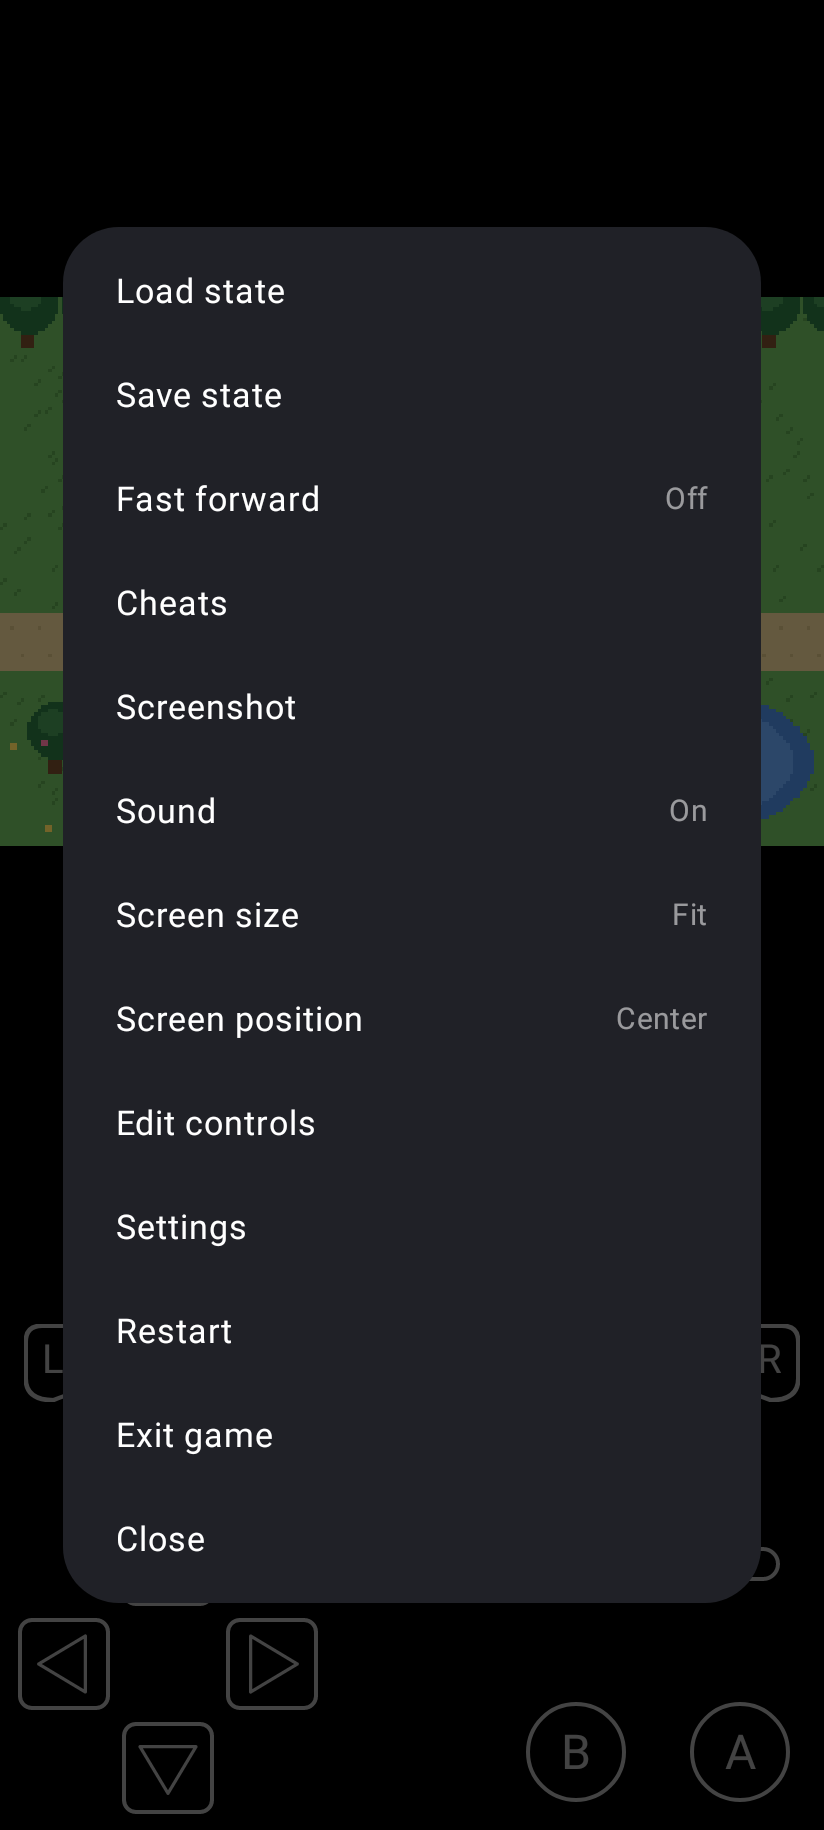
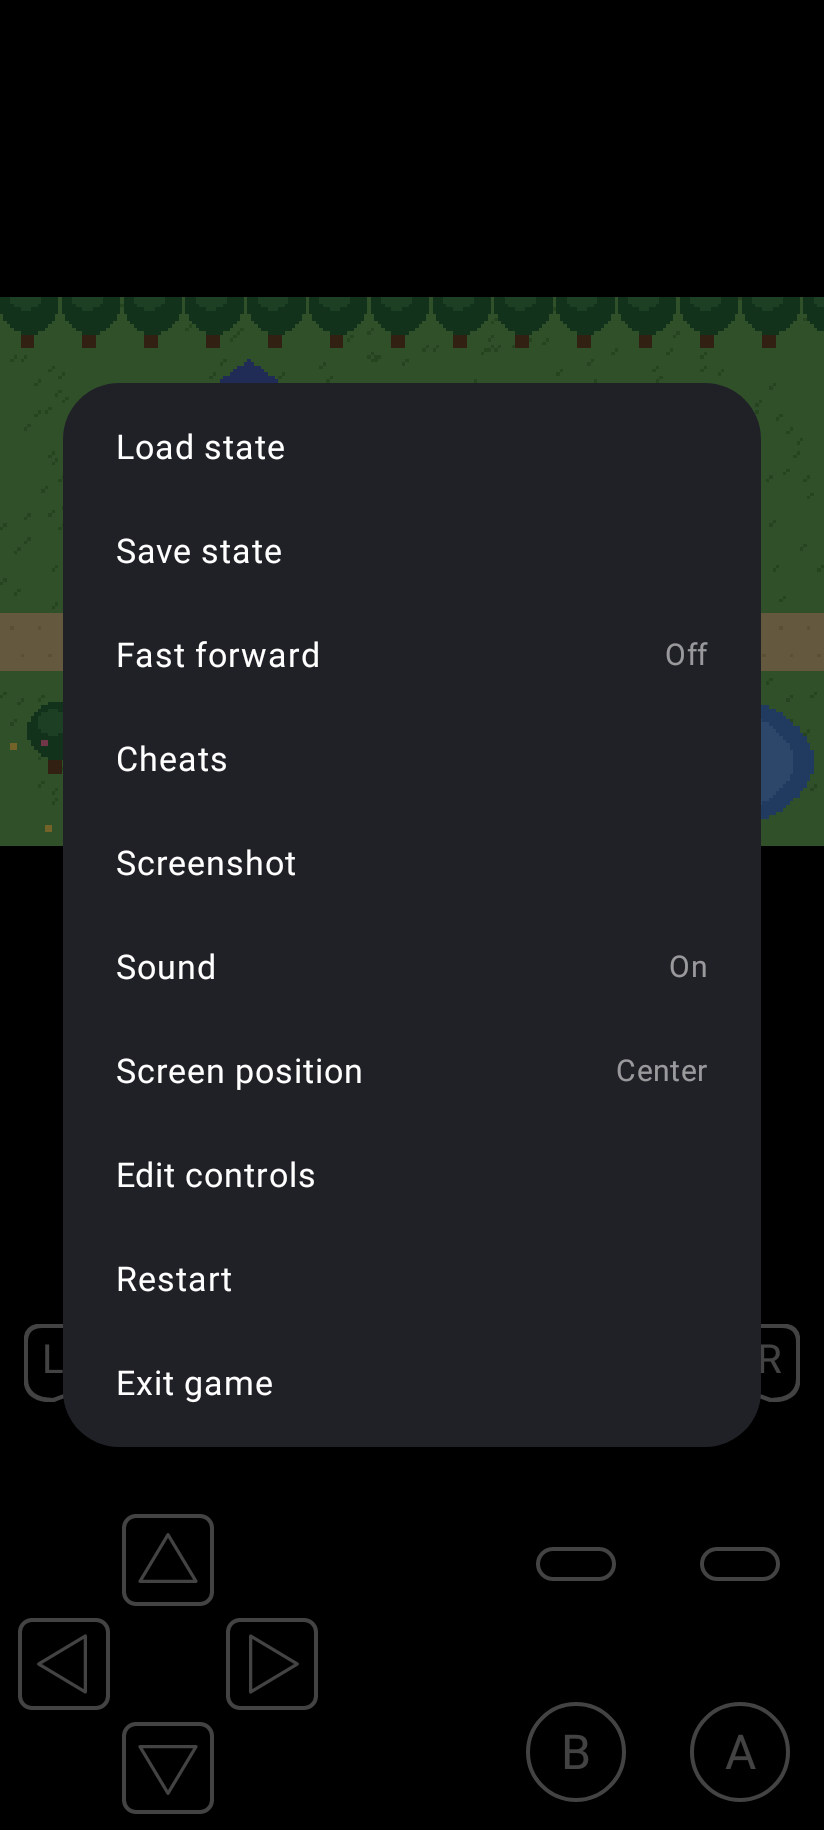
Shorter game menu
Remove Settings, Tilt sensor, Screen size and Close from the in-game
menu. The game picture always uses the Fit size now.

Claude-Session: https://claude.ai/code/session_01PZdcJ5Msn5QruFvcFc3jaN

diff --git a/lemuroid-app/src/main/java/com/swordfish/lemuroid/app/mobile/feature/gamemenu/GameMenuHomeScreen.kt b/lemuroid-app/src/main/java/com/swordfish/lemuroid/app/mobile/feature/gamemenu/GameMenuHomeScreen.kt
@@ -28,8 +28,6 @@ import com.alorma.compose.settings.storage.memory.rememberMemoryIntSettingState
 import com.swordfish.lemuroid.R
 import com.swordfish.lemuroid.app.mobile.feature.game.ClassicScreenPosition
 import com.swordfish.lemuroid.app.mobile.feature.game.ClassicScreenSettings
-import com.swordfish.lemuroid.app.mobile.feature.game.ClassicScreenSize
-import com.swordfish.lemuroid.app.mobile.feature.gamemenu.tilt.TiltConfigurationMenuEntry
 import com.swordfish.lemuroid.app.shared.GameMenuContract
 import com.swordfish.lemuroid.app.utils.android.settings.LemuroidSettingsList
 import kotlin.reflect.KFunction1
@@ -43,7 +41,6 @@ fun GameMenuHomeScreen(
     navController: NavController,
     gameMenuRequest: GameMenuActivity.GameMenuRequest,
     onResult: KFunction1<Intent.() -> Unit, Unit>,
-    onClose: () -> Unit,
 ) {
     val on = stringResource(R.string.menu_value_on)
     val off = stringResource(R.string.menu_value_off)
@@ -75,20 +72,9 @@ fun GameMenuHomeScreen(
         }
 
         if (gameMenuRequest.game.systemId in HANDHELD_SYSTEMS) {
-            // These change the game screen behind the menu right away, so the menu stays open.
+            // This moves the game behind the menu right away, so the menu stays open.
             val context = LocalContext.current
             var screen by remember { mutableStateOf(ClassicScreenSettings.read(context)) }
-            GameMenuRow(
-                stringResource(R.string.game_menu_screen_size),
-                value =
-                    stringResource(
-                        if (screen.size == ClassicScreenSize.FIT) R.string.screen_size_fit else R.string.screen_size_sharp,
-                    ),
-            ) {
-                val next = if (screen.size == ClassicScreenSize.FIT) ClassicScreenSize.SHARP_PIXELS else ClassicScreenSize.FIT
-                ClassicScreenSettings.setSize(context, next)
-                screen = screen.copy(size = next)
-            }
             GameMenuRow(
                 stringResource(R.string.game_menu_screen_position),
                 value =
@@ -113,32 +99,8 @@ fun GameMenuHomeScreen(
             )
         }
 
-        if (gameMenuRequest.allTiltConfigurations.isNotEmpty()) {
-            val tiltConfigurationEntries =
-                gameMenuRequest.allTiltConfigurations
-                    .map { TiltConfigurationMenuEntry.fromTiltConfiguration(it) }
-            val selectedIndex =
-                gameMenuRequest.allTiltConfigurations
-                    .indexOf(gameMenuRequest.currentTiltConfiguration)
-
-            LemuroidSettingsList(
-                title = { Text(text = stringResource(id = R.string.game_menu_tilt_sensor)) },
-                items = tiltConfigurationEntries.map { stringResource(it.descriptionId) },
-                state = rememberMemoryIntSettingState(selectedIndex),
-                onItemSelected = { index, _ ->
-                    onResult {
-                        putExtra(GameMenuContract.RESULT_CHANGE_TILT_CONFIG, tiltConfigurationEntries[index].configuration)
-                    }
-                },
-            )
-        }
-
         GameMenuRow(stringResource(R.string.game_menu_edit_touch_controls)) {
             onResult { putExtra(GameMenuContract.RESULT_EDIT_TOUCH_CONTROLS, true) }
-        }
-
-        if (gameMenuRequest.advancedCoreOptions.isNotEmpty() || gameMenuRequest.coreOptions.isNotEmpty()) {
-            GameMenuRow(stringResource(R.string.game_menu_settings)) { navController.navigateToRoute(GameMenuRoute.OPTIONS) }
         }
 
         GameMenuRow(stringResource(R.string.game_menu_restart)) {
@@ -147,7 +109,6 @@ fun GameMenuHomeScreen(
         GameMenuRow(stringResource(R.string.game_menu_quit)) {
             onResult { putExtra(GameMenuContract.RESULT_QUIT, true) }
         }
-        GameMenuRow(stringResource(R.string.close), onClick = onClose)
     }
 }
 

diff --git a/lemuroid-app/src/test/java/com/swordfish/lemuroid/app/mobile/feature/game/ClassicGamePadPreviewTest.kt b/lemuroid-app/src/test/java/com/swordfish/lemuroid/app/mobile/feature/game/ClassicGamePadPreviewTest.kt
@@ -150,13 +150,10 @@ class ClassicGamePadPreviewTest {
                     GameMenuRow("Cheats") { }
                     GameMenuRow("Screenshot") { }
                     GameMenuRow("Sound", value = "On") { }
-                    GameMenuRow("Screen size", value = "Fit") { }
                     GameMenuRow("Screen position", value = "Center") { }
                     GameMenuRow("Edit controls") { }
-                    GameMenuRow("Settings") { }
                     GameMenuRow("Restart") { }
                     GameMenuRow("Exit game") { }
-                    GameMenuRow("Close") { }
                 }
             }
         }

diff --git a/lemuroid-app/src/main/java/com/swordfish/lemuroid/app/mobile/feature/game/MobileGameScreen.kt b/lemuroid-app/src/main/java/com/swordfish/lemuroid/app/mobile/feature/game/MobileGameScreen.kt
@@ -165,7 +165,6 @@ fun MobileGameScreen(viewModel: BaseGameScreenViewModel) {
                     gameAspectRatio = classicAspectRatio,
                     nativeWidth = if (isGBA) 240 else 160,
                     nativeHeight = if (isGBA) 160 else 144,
-                    screenSize = screenValues.size,
                     screenPosition = screenValues.position,
                     hasShoulderButtons = currentControllerConfig?.touchControllerID == TouchControllerID.GBA,
                     showControls = touchControllerSettings != null && touchControlsVisibleState.value,

diff --git a/lemuroid-app/src/main/java/com/swordfish/lemuroid/app/mobile/feature/gamemenu/GameMenuActivity.kt b/lemuroid-app/src/main/java/com/swordfish/lemuroid/app/mobile/feature/gamemenu/GameMenuActivity.kt
@@ -187,7 +187,7 @@ class GameMenuActivity : RetrogradeComponentActivity() {
                         exitTransition = { fadeOut() },
                     ) {
                         composable(GameMenuRoute.HOME) {
-                            GameMenuHomeScreen(navController, gameMenuRequest, ::onResult, onClose = { finish() })
+                            GameMenuHomeScreen(navController, gameMenuRequest, ::onResult)
                         }
                         composable(GameMenuRoute.SAVE) {
                             GameMenuStatesScreen(
